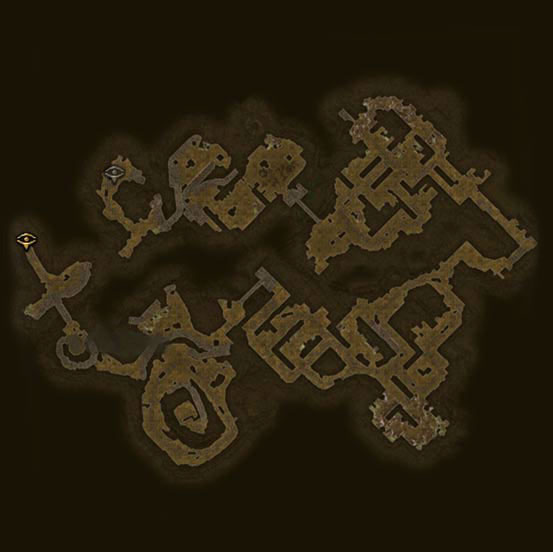
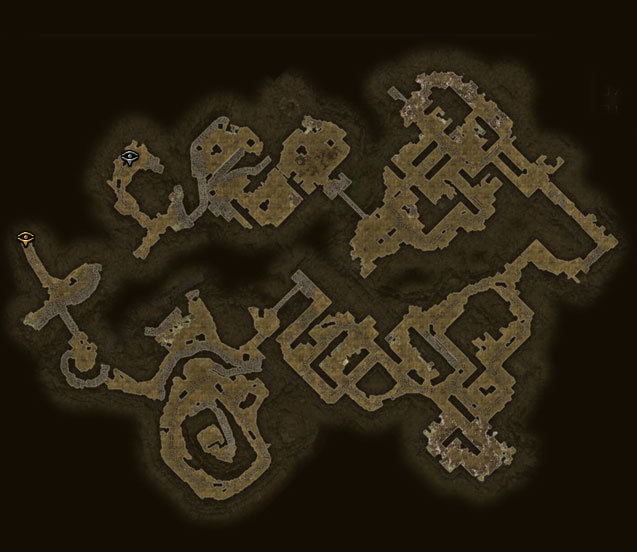
update region

Changed region(s): [[0.0307, 0.0924, 0.9837, 0.9239], [0.3996, 0.1232, 0.4919, 0.1848]]

diff --git a/js/ui.shrine.js b/js/ui.shrine.js
@@ -14,7 +14,7 @@
     { id: 'shrinetagWorldMapWitchGodTemple', regionTag: 'tagWorldMapWitchGodTemple', xp: 84.88, yp: 63.84, difficulty: 'normal' },
     { id: 'shrinetagUGArkovianFoothills02', regionTag: 'tagUGArkovianFoothills02', xp: 60.83, yp: 84.68, difficulty: 'normal' },
     { id: 'shrinetagMapRockyCoast', regionTag: 'tagMapRockyCoast', xp: 53.81, yp: 80.69, difficulty: 'normal' },
-    { id: 'shrinetagMapCronleysHideout', regionTag: 'tagMapCronleysHideout', xp: 55.46, yp: 69.97, difficulty: 'normal' },
+    { id: 'shrinetagMapCronleysHideout', regionTag: 'tagMapCronleysHideout', xp: 55.66, yp: 70.3, difficulty: 'normal' },
     { id: 'shrinetagMapOldArkovia', regionTag: 'tagMapOldArkovia', xp: 49.95, yp: 79.05, difficulty: 'normal' },
     { id: 'shrinetagUGOldArkovia02', regionTag: 'tagUGOldArkovia02', xp: 49.09, yp: 67.30, difficulty: 'normal' },
     { id: 'shrinetagMapBarrenHighlands', regionTag: 'tagMapBarrenHighlands', xp: 43.05, yp: 81.97, difficulty: 'normal' },

diff --git a/js/ui.overlay.js b/js/ui.overlay.js
@@ -17,7 +17,7 @@ window.DUNGEON_OVERLAYS = [
 
 { id: "depraved_sanctuary", map: "cairn", img: "depraved-sanctuary.jpg?1.1", left: 77.0266, top: 70.8195, width: 4.3266, height: 4.2136 },
 { id: "flooded_passage", map: "cairn", img: "flooded-passage.jpg?1.1", left: 60.4262, top: 68.7089, width: 4.8966, height: 4.795 },
-{ id: "cronleys_hideout", map: "cairn", img: "cronleys-hideout.jpg?1.1", left: 53.4257, top: 65.3967, width: 6.1811, height: 6.0534 },
+{ id: "cronleys_hideout", map: "cairn", img: "cronleys-hideout.jpg?1.11", left: 53.4257, top: 65.4967, width: 6.8811, height: 5.9534 },
 { id: "hannefy_mine", map: "cairn", img: "hannefy-mine.jpg?1.1", left: 56.0286, top: 71.5493, width: 3.962, height: 3.9036 },
 { id: "arkovian_undercity", map: "cairn", img: "arkovian-undercity.jpg?1.11", left: 46.2992, top: 66.3647, width: 7.017, height: 6.1196 },
 { id: "tyrant_hold", map: "cairn", img: "tyrant-hold.jpg?1.2", left: 46.4316, top: 59.5735, width: 6.6584, height: 6.5157 },

diff --git a/index.html b/index.html
@@ -691,10 +691,10 @@
 
   <script src="js/ui.lang.js?v=3.74"></script>
   <script src="js/core.js?v=3.13"></script>
-  <script src="js/ui.rift.js?v=4.0"></script>
-  <script src="js/ui.region.js?v=4.33"></script>
+  <script src="js/ui.rift.js?v=4.1"></script>
+  <script src="js/ui.region.js?v=4.34"></script>
 
-  <script src="js/ui.shrine.js?v=1.12"></script>
+  <script src="js/ui.shrine.js?v=1.13"></script>
 
   <script src="js/ui.navmarkers.js?v=1.23"></script>
   <script src="js/ui.map.base.js?v=1.56"></script>
@@ -712,7 +712,7 @@
 
   <script src="libs/pako.min.js"></script>
   <script src="js/ui.tools.js?v=3.1"></script>
-  <script src="js/ui.overlay.js?v=3.44"></script>
+  <script src="js/ui.overlay.js?v=3.45"></script>
   <script src="js/ui.dungeon.links.js?v=1.31"></script>
   <script src="js/ui.filter.js?v=3.03"></script>
   <script src="js/ui.search.js?v=1.25"></script>

diff --git a/js/ui.rift.js b/js/ui.rift.js
@@ -14,7 +14,7 @@ window.RIFT_MARKERS_CAIRN = [
 { id: 'rift_broken_hills', tag: 'tagRiftBrokenHills', xp: 49.43, yp: 82.6 },
 { id: 'rift_old_arkovia', tag: 'tagRiftOldArkovia', xp: 52.37, yp: 78.4 },
 { id: 'rift_arkovian_foothills', tag: 'tagRiftArkovianFoothills', xp: 54.5, yp: 85.9 },
-{ id: 'rift_cronleys_hideout', tag: 'tagRiftCronleysHideout', xp: 54.25, yp: 69.15 },
+{ id: 'rift_cronleys_hideout', tag: 'tagRiftCronleysHideout', xp: 54.35, yp: 69.45 },
 { id: 'rift_twin_falls', tag: 'tagRiftTwinFalls', xp: 48.6, yp: 77.4 },
 { id: 'rift_smugglers_pass', tag: 'tagRiftSmugglersPass', xp: 27.84, yp: 85.10 },
 { id: 'rift_smugglers_road', tag: 'tagRiftSmugglersRoad', xp: 37.25, yp: 68.9 },
